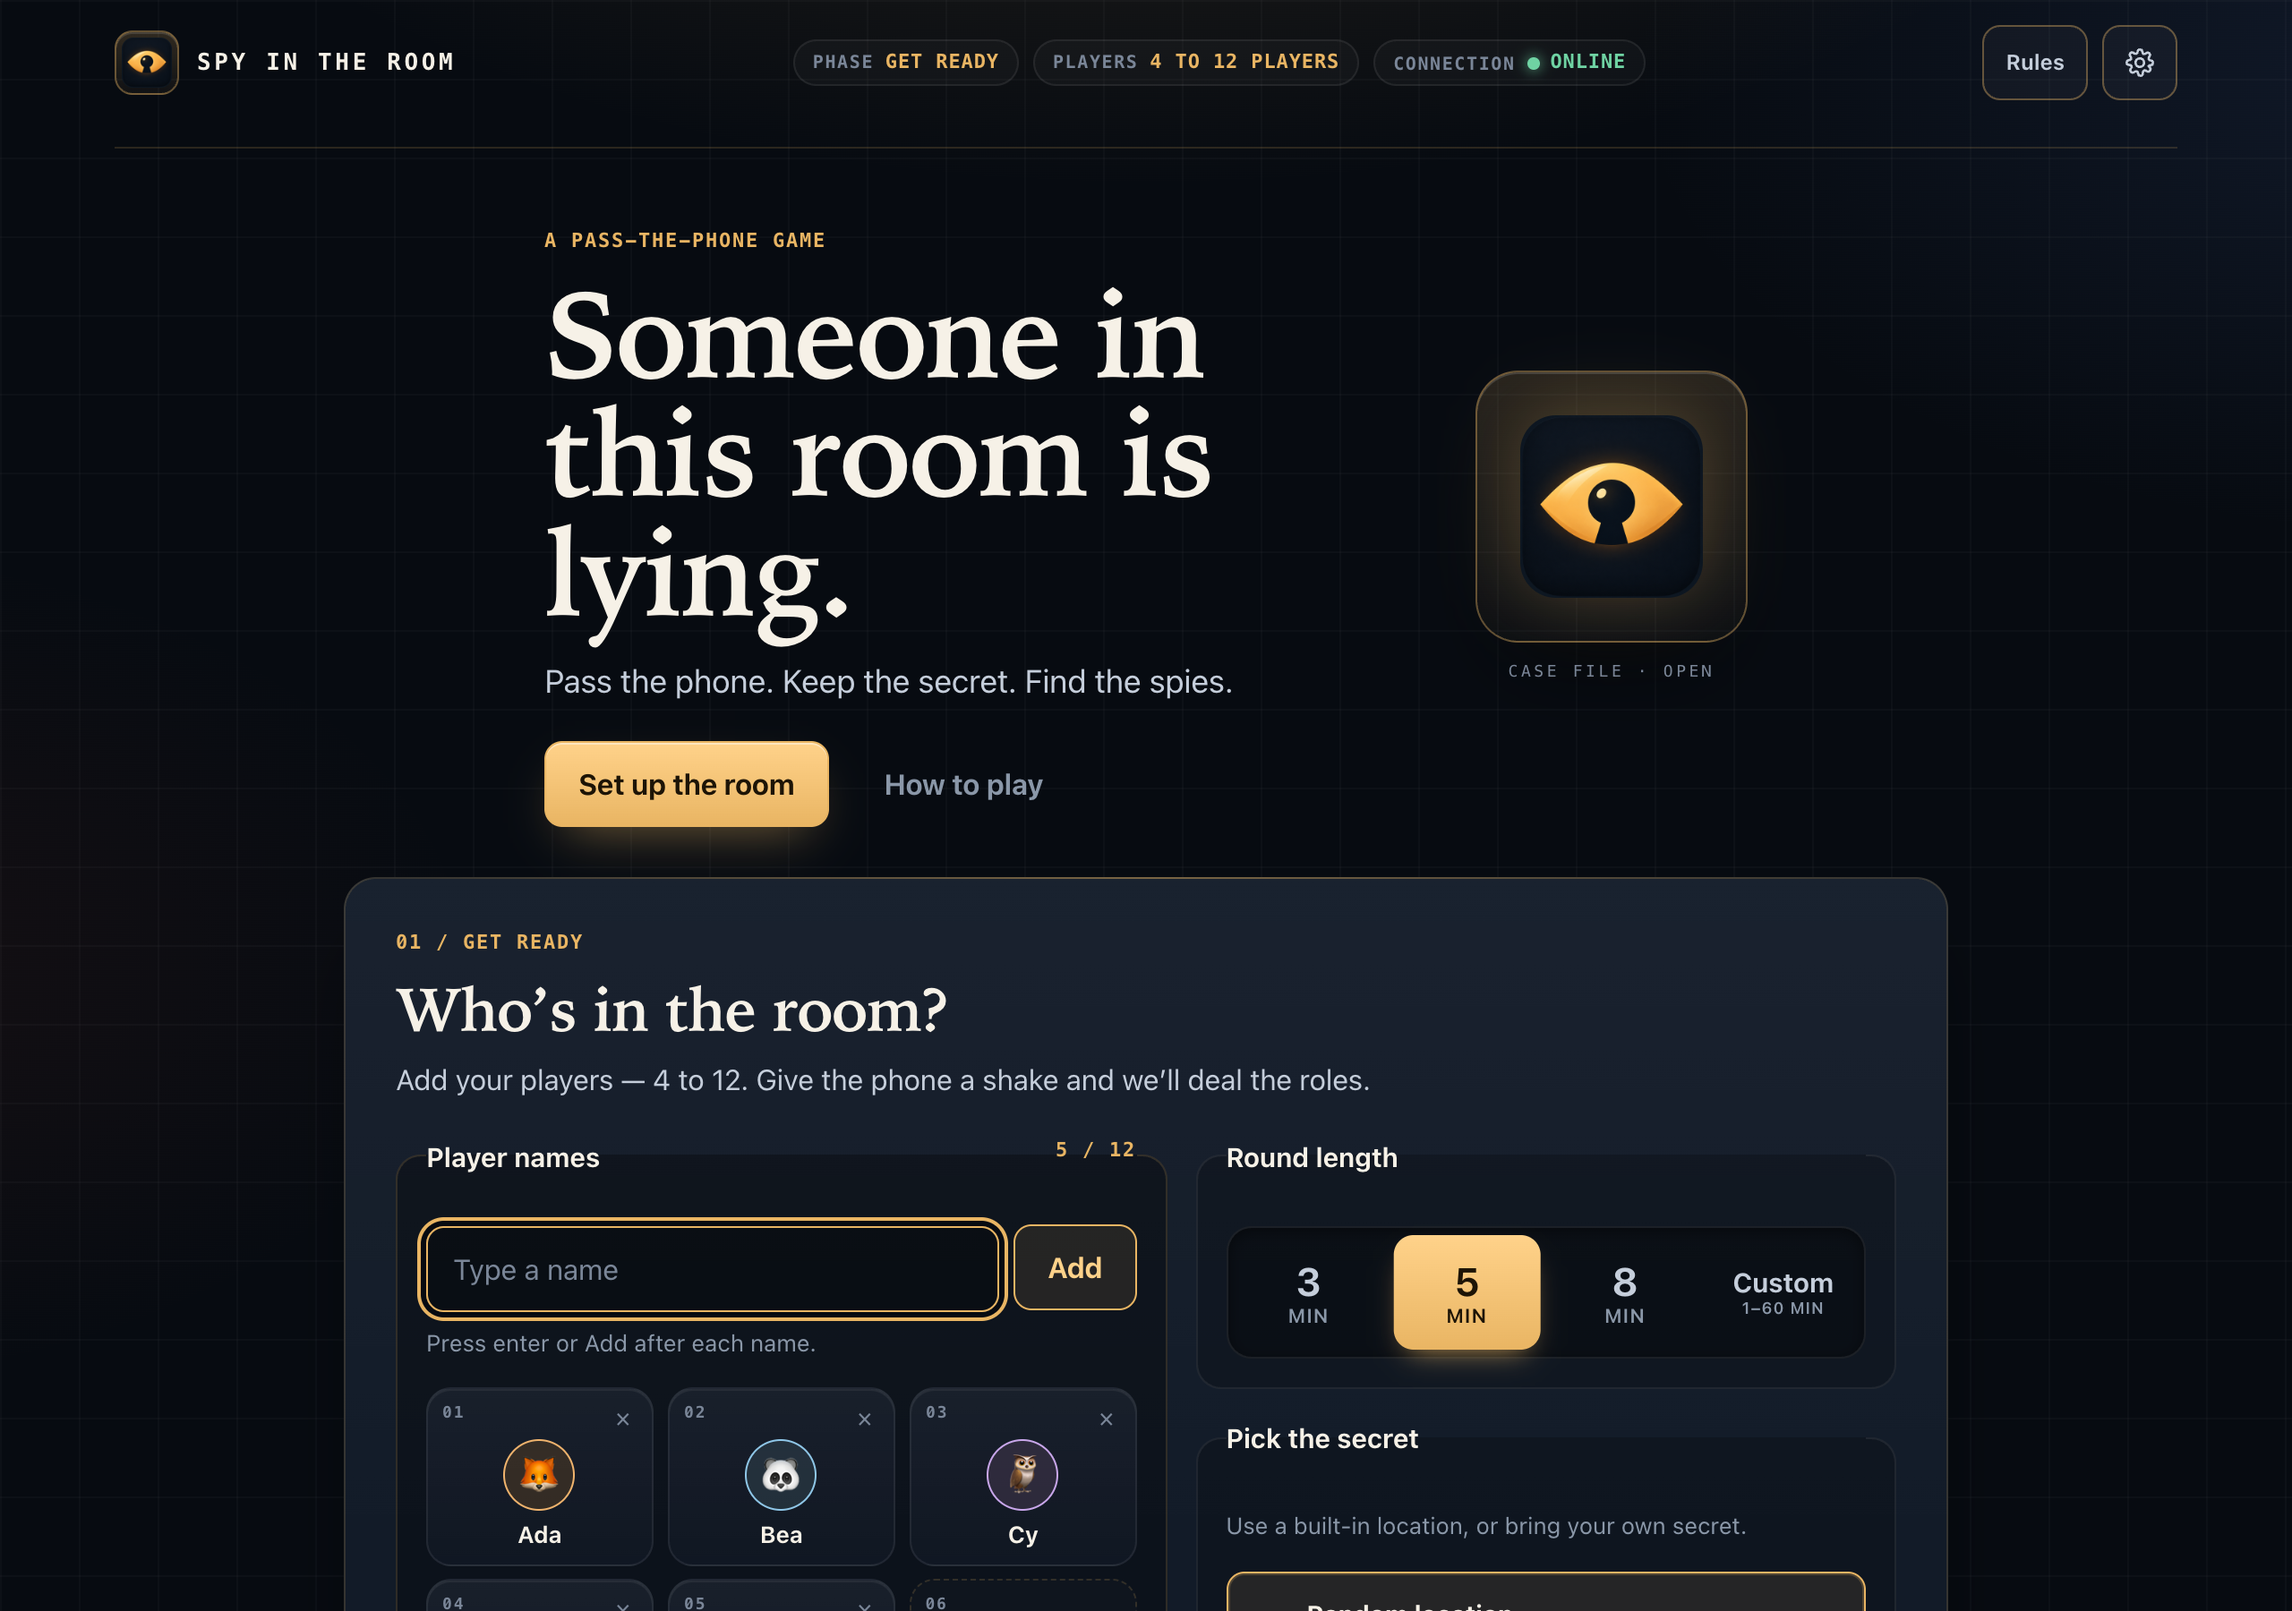
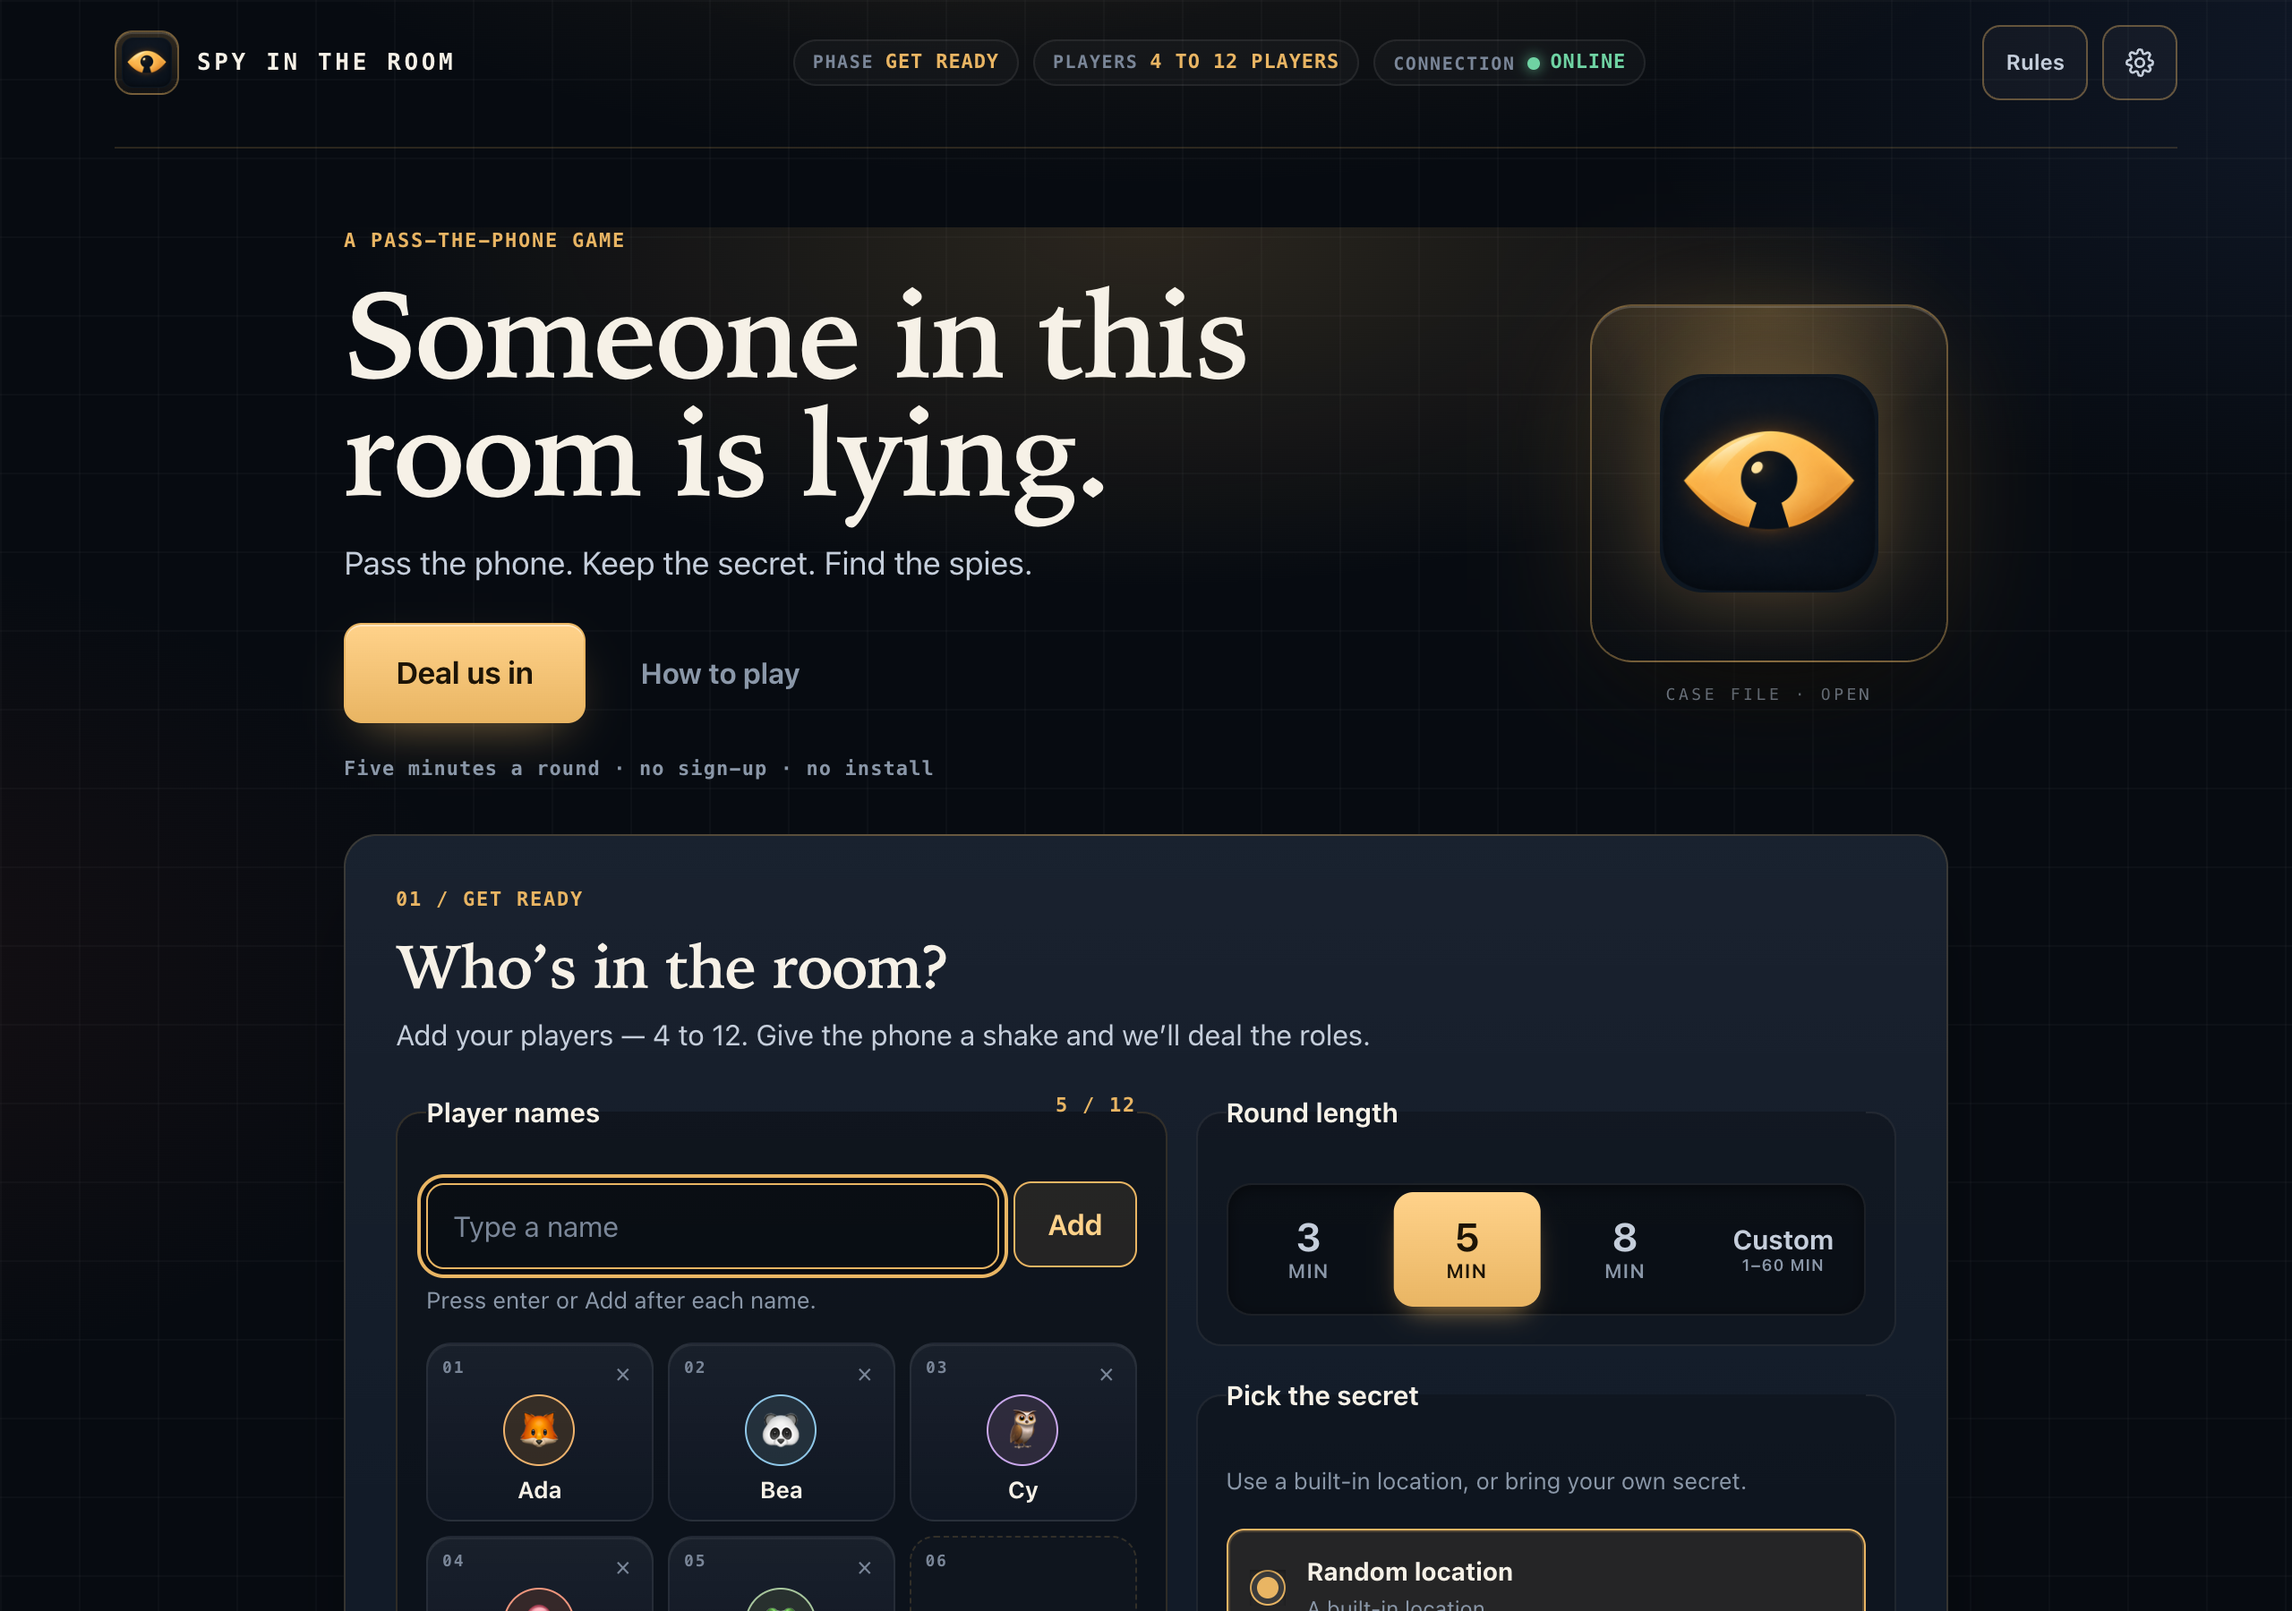
feat: make the landing page feel like a game and invite the room
The masthead was a headline next to a small icon. Give it the room it
deserves: the emblem becomes a large brass-framed case plate with a
light that keeps moving, a warm pool of light sits behind it, and the
copy arrives in pieces instead of all at once.

The invitation gets an answer: "Deal us in" instead of a form label, and
a quiet line that answers the three objections people have before they
start — five minutes a round, no sign-up, no install. Every primary
button now catches a highlight as you reach for it, and the sealed card
in the handoff does the same.

The board also stops hiding its own primary action. On a phone "Deal
the cards" sat about 1500px below the fold, under the round settings
nobody had scrolled to yet. It now sits directly under the seat table,
where the room is finished and wants to play.

diff --git a/styles.css b/styles.css
@@ -109,6 +109,17 @@ body::before {
   pointer-events: none;
 }
 
+/* A slow warm light drifting over the room. */
+body::after {
+  position: fixed;
+  inset: -25%;
+  z-index: 0;
+  background: radial-gradient(34rem 26rem at 50% 0%, rgba(233, 181, 99, 0.15), transparent 68%);
+  content: '';
+  pointer-events: none;
+  animation: light-drift 28s ease-in-out infinite alternate;
+}
+
 button,
 input,
 select {
@@ -542,10 +553,35 @@ select {
 }
 
 .button-primary {
+  position: relative;
+  overflow: hidden;
   border-color: var(--brass);
   background: linear-gradient(180deg, var(--brass-bright), var(--brass));
   color: var(--brass-ink);
   box-shadow: var(--shadow-brass), inset 0 1px 0 rgba(255, 255, 255, 0.45);
+}
+
+/* A highlight that runs across the brass when you reach for it. */
+.button-primary::after {
+  position: absolute;
+  top: -60%;
+  left: 0;
+  width: 40%;
+  height: 220%;
+  background: linear-gradient(90deg, transparent, rgba(255, 255, 255, 0.42), transparent);
+  content: '';
+  pointer-events: none;
+  transform: translateX(-160%) rotate(14deg);
+  transition: transform 700ms var(--ease-out);
+}
+
+.button-primary:hover:not(:disabled)::after,
+.button-primary:focus-visible::after {
+  transform: translateX(340%) rotate(14deg);
+}
+
+.button-primary:disabled::after {
+  display: none;
 }
 
 .button-primary:hover:not(:disabled) {
@@ -847,10 +883,12 @@ fieldset {
   background: linear-gradient(180deg, rgba(18, 27, 40, 0) 0%, var(--ink-700) 42%);
 }
 
-/* The briefing board is a form the player reads top to bottom: a floating
-   action bar would sit on top of the roster and the name field. */
+/* The primary action sits right under the seat table: that is the moment
+   the room is ready to play, and on a phone it keeps the start button
+   within reach instead of below the fold. */
 .setup-board .sticky-action {
   position: static;
+  order: 1;
   padding-bottom: 0;
   background: none;
 }
@@ -858,18 +896,46 @@ fieldset {
 /* ---------- 6. Home ---------- */
 
 .intro {
+  position: relative;
   display: grid;
   grid-template-columns: minmax(0, 1fr) auto;
   grid-template-areas: 'copy mark';
   gap: clamp(1.25rem, 4vw, 2.5rem);
   align-items: center;
-  max-width: 42rem;
+  max-width: 56rem;
   margin: 0 auto 1.75rem;
+  /* A warm pool of light, painted inside the masthead so it cannot spill. */
+  background: radial-gradient(70% 90% at 50% 0%, rgba(233, 181, 99, 0.16), transparent 72%);
 }
 
 .intro-copy-block {
   grid-area: copy;
   min-width: 0;
+}
+
+/* The masthead arrives in pieces rather than all at once. */
+.intro-copy-block > * {
+  animation: rise-in 620ms var(--ease-out) both;
+}
+
+.intro-copy-block > *:nth-child(1) {
+  animation-delay: 40ms;
+}
+
+.intro-copy-block > *:nth-child(2) {
+  animation-delay: 110ms;
+}
+
+.intro-copy-block > *:nth-child(3) {
+  animation-delay: 180ms;
+}
+
+.intro-copy-block > *:nth-child(4) {
+  animation-delay: 250ms;
+}
+
+.intro-copy-block > *:nth-child(5) {
+  animation-delay: 320ms;
 }
 
 .intro-lede {
@@ -885,34 +951,70 @@ fieldset {
   gap: 0.75rem;
 }
 
+.intro-proof {
+  margin: 1.125rem 0 0;
+  color: var(--muted);
+  font-family: var(--font-mono);
+  font-size: 0.6875rem;
+  font-weight: 600;
+  letter-spacing: 0.05em;
+}
+
+.button-hero {
+  min-height: 3.5rem;
+  padding: 0.875rem 1.75rem;
+  font-size: 1.0625rem;
+}
+
 .intro-mark {
   display: grid;
   grid-area: mark;
   justify-items: center;
-  gap: 0.625rem;
+  gap: 0.75rem;
+  animation: rise-in 700ms var(--ease-out) 200ms both;
 }
 
+/* The emblem: a brass-framed case plate with a light that keeps moving. */
 .intro-mark-frame {
+  position: relative;
   display: grid;
-  width: clamp(6.5rem, 20vw, 9.5rem);
-  height: clamp(6.5rem, 20vw, 9.5rem);
+  width: clamp(8.5rem, 24vw, 12.5rem);
+  height: clamp(8.5rem, 24vw, 12.5rem);
   place-items: center;
+  overflow: hidden;
   border: 1px solid var(--line-strong);
   border-radius: var(--r-xl);
-  background: linear-gradient(180deg, rgba(233, 181, 99, 0.14), rgba(233, 181, 99, 0.02));
-  box-shadow: inset 0 1px 0 rgba(255, 255, 255, 0.14), 0 1.5rem 3rem -1.5rem rgba(0, 0, 0, 0.9);
+  background:
+    radial-gradient(80% 60% at 50% 0%, rgba(233, 181, 99, 0.22), transparent 70%),
+    linear-gradient(180deg, rgba(233, 181, 99, 0.1), rgba(233, 181, 99, 0.01));
+  box-shadow:
+    inset 0 1px 0 rgba(255, 255, 255, 0.16),
+    0 2rem 4rem -1.5rem rgba(0, 0, 0, 0.9),
+    0 0 5rem -2rem rgba(233, 181, 99, 0.55);
+}
+
+.intro-mark-gleam {
+  position: absolute;
+  top: -20%;
+  left: 0;
+  width: 40%;
+  height: 140%;
+  background: linear-gradient(90deg, transparent, rgba(255, 232, 194, 0.3), transparent);
+  pointer-events: none;
+  transform: translateX(-160%) rotate(14deg);
+  animation: mark-gleam 7s var(--ease-out) infinite;
 }
 
 .intro-mark-image {
-  width: 68%;
+  width: 62%;
   height: auto;
-  border-radius: 1.25rem;
+  border-radius: 1.5rem;
   object-fit: cover;
-  filter: drop-shadow(0 0 1.25rem rgba(233, 181, 99, 0.28));
+  filter: drop-shadow(0 0 1.5rem rgba(233, 181, 99, 0.35));
 }
 
 .intro-mark-tag {
-  color: var(--muted-dim);
+  color: var(--muted);
   font-family: var(--font-mono);
   font-size: 0.5625rem;
   letter-spacing: 0.2em;
@@ -929,7 +1031,8 @@ fieldset {
 }
 
 .setup-form {
-  display: grid;
+  display: flex;
+  flex-direction: column;
   gap: 1rem;
 }
 
@@ -937,6 +1040,7 @@ fieldset {
   display: flex;
   flex-direction: column;
   gap: 1rem;
+  order: 2;
 }
 
 .setup-panel {
@@ -1567,6 +1671,20 @@ fieldset {
     repeating-linear-gradient(135deg, rgba(255, 255, 255, 0.022) 0 12px, transparent 12px 24px),
     var(--ink-850);
   box-shadow: inset 0 0 0 1px rgba(233, 181, 99, 0.08), 0 1.5rem 3rem -1.5rem rgba(0, 0, 0, 0.9);
+}
+
+/* The sealed card catches the light the way a real card would. */
+.secret-card-front::before {
+  position: absolute;
+  top: -30%;
+  left: -60%;
+  width: 40%;
+  height: 160%;
+  background: linear-gradient(90deg, transparent, rgba(255, 232, 194, 0.16), transparent);
+  content: '';
+  pointer-events: none;
+  transform: rotate(14deg);
+  animation: mark-gleam 9s var(--ease-out) infinite;
 }
 
 .secret-card-front::after {
@@ -2909,6 +3027,40 @@ fieldset {
   }
 }
 
+@keyframes rise-in {
+  from {
+    opacity: 0;
+    transform: translateY(1rem);
+  }
+
+  to {
+    opacity: 1;
+    transform: none;
+  }
+}
+
+@keyframes mark-gleam {
+  0%,
+  12% {
+    transform: translateX(-160%) rotate(14deg);
+  }
+
+  45%,
+  100% {
+    transform: translateX(360%) rotate(14deg);
+  }
+}
+
+@keyframes light-drift {
+  from {
+    transform: translate3d(-6%, -2%, 0) scale(1);
+  }
+
+  to {
+    transform: translate3d(6%, 3%, 0) scale(1.15);
+  }
+}
+
 @keyframes card-sweep {
   0% {
     opacity: 0;
@@ -3064,11 +3216,30 @@ fieldset {
     grid-template-columns: repeat(3, minmax(0, 1fr));
   }
 
-  /* The table on the left, the round settings on the right. */
+  /* The table on the left, the round settings on the right, the action
+     across the bottom. */
   .setup-form {
+    display: grid;
     grid-template-columns: minmax(0, 1.1fr) minmax(0, 1fr);
-    align-items: stretch;
+    grid-template-areas:
+      'roster options'
+      'cta cta';
+    align-items: start;
     gap: 1rem;
+  }
+
+  .roster-fieldset {
+    grid-area: roster;
+  }
+
+  .setup-options {
+    grid-area: options;
+    order: 0;
+  }
+
+  .setup-board .sticky-action {
+    grid-area: cta;
+    order: 0;
   }
 
   /* Stacked choices fill the settings column beside the taller table. */

diff --git a/index.html b/index.html
@@ -12,7 +12,7 @@
     <meta property="og:description" content="Pass the phone, bluff your way through the questions, and find the spies.">
     <meta name="twitter:card" content="summary">
     <title>Spy in the Room — Pass the phone</title>
-    <link rel="stylesheet" href="styles.css?v=21">
+    <link rel="stylesheet" href="styles.css?v=22">
   </head>
   <body>
     <a class="skip-link" href="#main-content">Skip to game</a>
@@ -69,12 +69,14 @@
               <h1 id="page-title">Someone in this room is lying.</h1>
               <p class="intro-lede">Pass the phone. Keep the secret. Find the spies.</p>
               <div class="intro-actions">
-                <a class="button button-primary" href="#setup-view">Set up the room</a>
+                <a class="button button-primary button-hero" href="#setup-view">Deal us in</a>
                 <button class="button button-ghost" type="button" data-open-how-to-play>How to play</button>
               </div>
+              <p class="intro-proof">Five minutes a round · no sign-up · no install</p>
             </div>
             <div class="intro-mark" aria-hidden="true">
               <span class="intro-mark-frame">
+                <span class="intro-mark-gleam"></span>
                 <img class="intro-mark-image" src="assets/app-icon-512.png" alt="">
               </span>
               <span class="intro-mark-tag">Case file · open</span>
@@ -206,12 +208,12 @@
                 </details>
               </div>
               </div>
-            </form>
 
-            <div class="sticky-action">
-              <button id="start-button" class="button button-primary button-wide" type="submit" form="player-form" disabled>Deal the cards</button>
-              <p id="player-empty-state" class="setup-hint" role="status">Add 4 names to start.</p>
-            </div>
+              <div class="sticky-action">
+                <button id="start-button" class="button button-primary button-wide" type="submit" form="player-form" disabled>Deal the cards</button>
+                <p id="player-empty-state" class="setup-hint" role="status">Add 4 names to start.</p>
+              </div>
+            </form>
           </section>
 
           <section id="reveal-view" class="phase-view action-card reveal-stage" data-phase="reveal" aria-labelledby="reveal-title" hidden>
@@ -645,7 +647,7 @@
     <script src="prefs.js?v=15"></script>
     <script src="api-client.js?v=15"></script>
     <script src="game-view.js?v=22"></script>
-    <script src="game.js?v=22"></script>
+    <script src="game.js?v=23"></script>
 
     <!-- Vercel Web Analytics: page views only; no game data or custom events. -->
     <script src="analytics-bootstrap.js?v=15"></script>

diff --git a/game.js b/game.js
@@ -277,6 +277,10 @@
     refs.startButton.disabled = !validation.ok || !state.sessionReady;
     refs.startButton.disabled = refs.startButton.disabled
       || !secretValidation.ok || state.mutationBusy;
+    // The action bar only floats once there is a table worth dealing.
+    if (refs.app) {
+      refs.app.dataset.setupReady = refs.startButton.disabled ? 'false' : 'true';
+    }
     refs.addPlayerButton.disabled = names.length >= MAX_PLAYERS || state.mutationBusy;
     refs.playerEmptyState.hidden = names.length >= MIN_PLAYERS;
     refs.playerEmptyState.textContent = names.length === 0

diff --git a/service-worker.js b/service-worker.js
@@ -2,7 +2,7 @@
 
 // Bump CACHE_NAME when any precached shell asset changes.
 const CACHE_PREFIX = 'spy-in-the-room-shell-';
-const CACHE_NAME = 'spy-in-the-room-shell-v25';
+const CACHE_NAME = 'spy-in-the-room-shell-v26';
 const OFFLINE_URL = '/offline.html';
 const PRECACHE_URLS = Object.freeze([
   '/',
